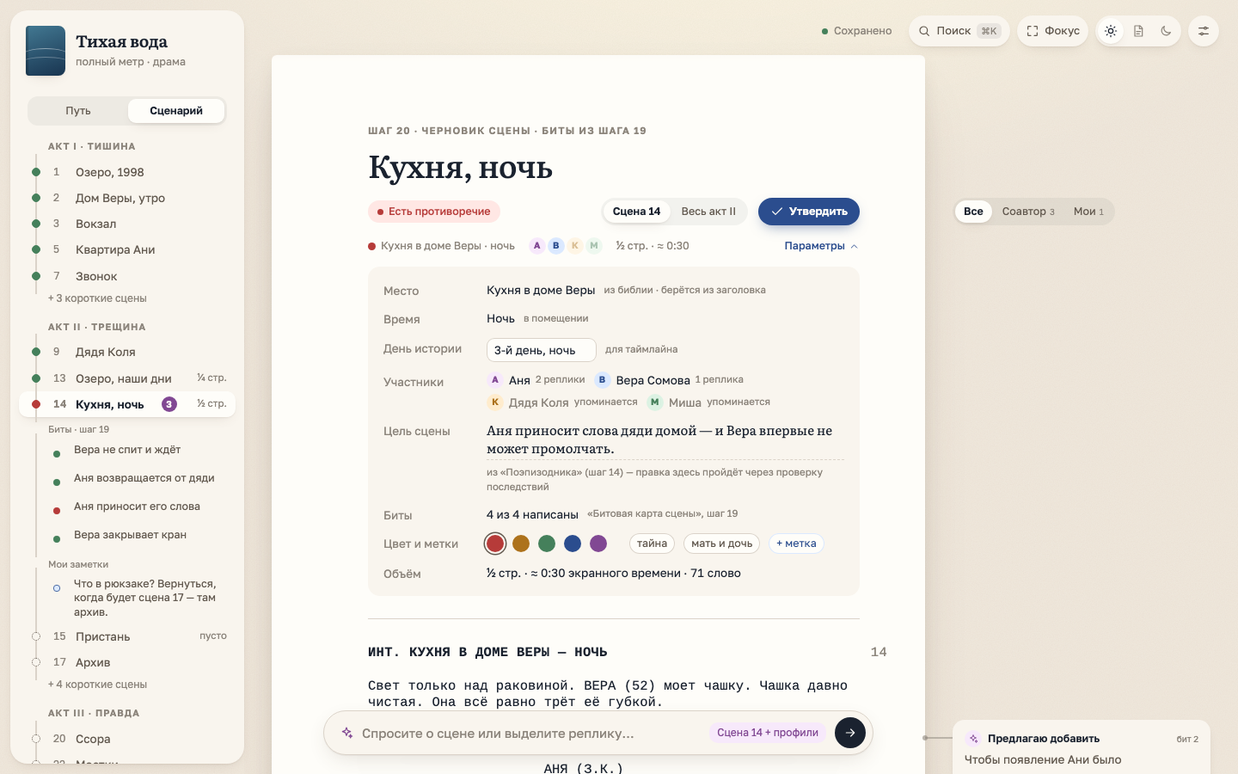
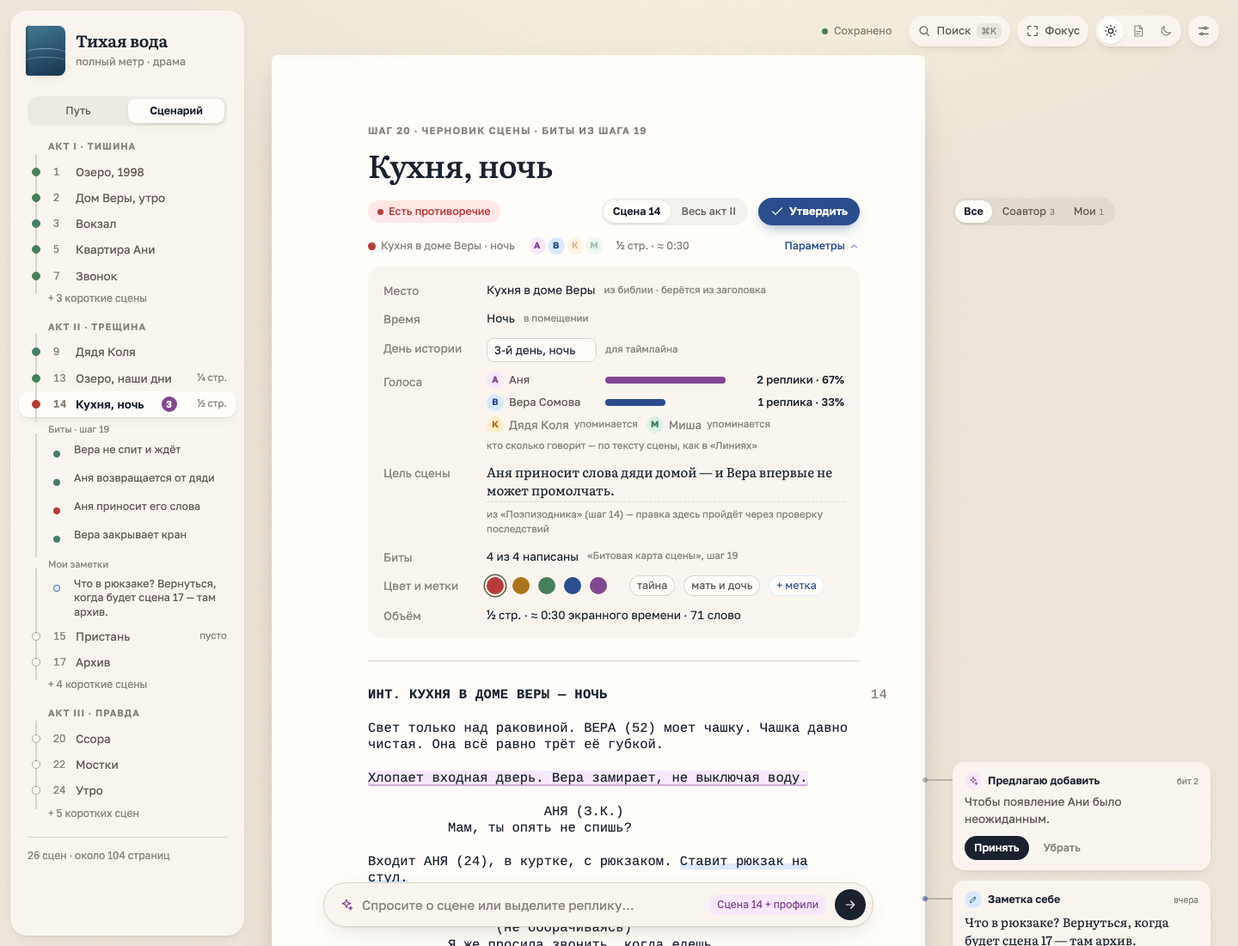
Add the heroines' mood and scene voices to «Кабинет»
The rhythm view gets a mood band for Vera and Anya under the tension
curve; scene parameters show who speaks how much. This closes the
visual views plan.

diff --git a/openspec/context/_raw/design/kabinet/index.html b/openspec/context/_raw/design/kabinet/index.html
@@ -618,6 +618,10 @@
   .vrow { display: grid; grid-template-columns: 96px 1fr 92px; align-items: center; gap: 10px; font-size: 13px; color: var(--ink-2); }
   .vrow i { height: 8px; width: max(var(--w), 3px); background: var(--c); border-radius: 4px; }
   .vrow b { font-weight: 500; color: var(--ink); text-align: right; }
+  .scp-voices { display: grid; gap: 6px; width: 100%; max-width: 460px; }
+  .scp-v { grid-template-columns: 128px 1fr 128px; }
+  .scp-v > span { display: inline-flex; align-items: center; gap: 6px; min-width: 0; }
+  @container (max-width: 760px) { .scp-v { grid-template-columns: minmax(0, 1fr) auto; row-gap: 4px; } .scp-v i { grid-column: 1 / -1; grid-row: 2; } }
   .tl-alert.warn { box-shadow: var(--shadow-sm), inset 3px 0 0 var(--warn); }
   .tl-alert.warn .av { background: var(--ai-soft); color: var(--ai); }
   .tn .tn-act { fill: oklch(from var(--ink) l c h / .025); }
@@ -628,6 +632,14 @@
   .tn .tn-beat.off { stroke: var(--warn); }
   .tn .tn-bl { font-size: 11.5px; font-weight: 600; fill: var(--ink-2); }
   .tn .tn-area { fill: var(--accent-soft); opacity: .55; }
+  .tn .tn-mband { fill: oklch(from var(--ink) l c h / .025); }
+  .tn .tn-mood { fill: none; stroke: var(--c); stroke-width: 2; opacity: .9; }
+  .tn .tn-mpt { fill: var(--paper); stroke: var(--c); stroke-width: 1.6; cursor: pointer; }
+  .tn .tn-mpt.on { fill: var(--c); }
+  .tn .tn-msel { stroke: var(--accent); stroke-width: 1; stroke-dasharray: 2 3; opacity: .6; }
+  .tn-who { display: inline-flex; align-items: center; gap: 6px; }
+  .tn-who i { width: 10px; height: 3px; border-radius: 2px; }
+  .tn-who[aria-pressed="false"] i { opacity: .35; }
   .tn .tn-line { fill: none; stroke: var(--accent); stroke-width: 2.2; }
   .tn .tn-pt { fill: var(--paper); stroke: var(--accent); stroke-width: 2; cursor: ns-resize; transition: r .15s; }
   .tn .tn-pt:hover { r: 7; }
@@ -755,15 +767,12 @@
   .ibl-k { width: 62px; flex: none; font-size: 12px; color: var(--ink-3); }
   .ibl-t { flex: 1; min-width: 0; font-family: var(--font-prose); font-size: 15.5px; color: var(--ink); }
   .ibp { width: 340px; flex: none; margin-top: 60px; overflow: auto; padding: 14px 14px 110px; border-radius: 20px; background: var(--panel); box-shadow: var(--shadow-sm); }
-  .ib-add { display: flex; gap: 6px; }
-  .ib-add input { flex: 1; min-width: 0; height: 36px; padding: 0 14px; border-radius: 18px; border: 0; background: var(--paper); box-shadow: inset 0 0 0 1px var(--line); color: var(--ink); font: inherit; font-size: 14px; }
-  .ib-add .chipbtn { width: 36px; height: 36px; padding: 0; display: grid; place-items: center; }
-  .ib-add .chipbtn svg, .ib-sel-acts .chipbtn svg { width: 13px; height: 13px; }
   .ib-sel { margin-top: 4px; padding: 14px; border-radius: 16px; background: var(--paper); box-shadow: var(--shadow-sm); }
   .ib-sel-h { display: flex; align-items: center; flex-wrap: wrap; gap: 6px 8px; }
   .ib-sel-h b { font-family: var(--font-prose); font-size: 18px; font-weight: 600; }
   .ib-in { font-size: 12px; color: var(--ink-3); }
   .ib-sel > p { margin: 6px 0 4px; font-family: var(--font-prose); font-size: 16px; line-height: 1.4; color: var(--ink); }
+  .ib-sel-acts .chipbtn svg { width: 13px; height: 13px; }
   .ib-sel-acts { display: flex; flex-wrap: wrap; gap: 6px; margin-top: 12px; }
   .ib-sel-acts .chipbtn { display: inline-flex; align-items: center; gap: 5px; }
   .ib-row { display: flex; align-items: center; flex-wrap: wrap; gap: 6px 8px; margin-top: 8px; font-size: 13px; color: var(--ink-2); }
@@ -1427,7 +1436,7 @@ const STATE = {
   d11: { answers: [], own: [], checks: {}, approved: false },
   chg: "edit", chgOld: D2Q, chgNew: "Имеет ли человек право решать за близких, какую правду они смогут вынести?", plan: new Set([5, 9, 13]), revision: false,
   bibleTab: "people", gap: null,
-  tlSel: 14, tlThreads: true, tlKnow: true, grSel: 14, tnSel: 14, tension: {}, relAt: 14, relSel: "va", relFocus: "v", relView: "arcs",
+  tlSel: 14, tlThreads: true, tlKnow: true, grSel: 14, tnSel: 14, tnMood: ["v", "a"], tension: {}, relAt: 14, relSel: "va", relFocus: "v", relView: "arcs",
   ibSel: 10, ibEdit: null, ibRename: null, ibGone: [], ibUndo: null, ibPos: {}, ibLinks: ["1-9", "1-4", "13-14", "3-5", "2-5", "2-16", "5-17", "6-8", "7-8"], ibSugg: ["4-10", "6-12"], ibLink: null, ibYes: {}, ibNo: [], ibNew: [], ibWires: true, ibShowGrew: true, ibGroups: true, ibView: "board", ibCam: null, ibGroupSugg: true,
   // Рамки групп на доске импульсов: координаты в точках доски
   ibFrames: [{ id: "lake", name: "Озеро", x: 0, y: 0, w: 620, h: 452 }, { id: "vera", name: "Вера и тема", x: 700, y: 0, w: 620, h: 452 }, { id: "kitchen", name: "Кухня, ночь", x: 1400, y: 0, w: 420, h: 452 }],
@@ -1718,7 +1727,8 @@ const VIEWS = {
 
   rhythm: () => `<div class="stage"><div class="home">
       <div class="board-h"><div><div class="hello">Тихая вода · полный метр</div><h1>Ритм</h1></div>${boardSeg("rhythm")}</div>
-      <p class="board-note">Кривая напряжения по страницам сценария поверх опорных точек «Скелетной карты». Кривую предлагает соавтор; если чувствуете сцену иначе — потяните точку вверх или вниз. Полосы — где эти точки обычно ждёт зритель полного метра.</p>
+      <p class="board-note">Кривая напряжения по страницам сценария поверх опорных точек «Скелетной карты». Кривую предлагает соавтор; если чувствуете сцену иначе — потяните точку вверх или вниз. Полосы — где эти точки обычно ждёт зритель полного метра. Ниже — настроение героинь: лучше или хуже им от сцены к сцене.</p>
+      <div class="tl-tools"><span>Настроение</span>${TN_WHO.map(([k, name, c]) => `<button class="chipbtn tn-who" aria-pressed="${STATE.tnMood.includes(k)}" data-act="tn-mood" data-k="${k}"><i style="background:var(--${c})"></i>${name}</button>`).join("")}</div>
       <div class="tl-wrap tn-wrap">${tnSvg()}
         <div class="tl-legend tn-legend"><span><i class="lg tn-l"></i>напряжение</span><span><i class="tn-d"></i>ваша правка</span><span><i class="tn-d g"></i>оценка соавтора</span><span><i class="tn-b"></i>где точку обычно ждут</span></div></div>
       ${tnSel()}
@@ -2366,6 +2376,15 @@ const TN_PAGES = { 1: 3, 2: 5, 3: 3, 4: 2, 5: 4, 6: 3, 7: 4, 8: 2, 9: 7, 10: 4, 
 // Оценка соавтора, 0–10. Сцены 14 и 22 зависят от того, где Аня узнаёт правду.
 const TN_AI = { 1: 6, 2: 2, 3: 3, 4: 2, 5: 5, 6: 3, 7: 5, 8: 3, 9: 7, 10: 3, 11: 5, 12: 3, 13: 5, 15: 6, 16: 8, 17: 7, 18: 5, 19: 6, 20: 8, 21: 7, 23: 5, 24: 4, 25: 3, 26: 4 };
 const tnAI = (n) => (n === 14 ? (STATE.sceneConflict ? 9 : 6) : n === 22 ? (STATE.sceneConflict ? 8 : 10) : TN_AI[n]);
+// Настроение героинь по сценам, −5 (хуже некуда) … +5 (лучше всего). Предлагает соавтор по тексту и профилям.
+// Аня в сцене 14 и 22 зависит от того, где она узнаёт правду.
+const TN_MOOD = {
+  v: { 1: -1, 2: 1, 3: 1, 4: 0, 5: -2, 6: -1, 7: -2, 8: -3, 9: -3, 10: -2, 11: -2, 12: -4, 13: -3, 14: -4, 15: -3, 16: -5, 17: -4, 18: -3, 19: -4, 20: -5, 21: -4, 22: -2, 23: 0, 24: 1, 25: 2, 26: 3 },
+  a: { 1: 0, 2: 2, 3: 2, 4: 1, 5: 1, 6: 0, 7: -1, 8: -1, 9: -3, 10: -2, 11: -2, 12: -2, 13: -3, 15: -3, 16: -3, 17: -2, 18: -1, 19: -3, 20: -5, 21: -4, 23: -2, 24: 0, 25: 1, 26: 3 },
+};
+const TN_WHO = [["v", "Вера", "accent"], ["a", "Аня", "ai"]];
+const tnMood = (k, n) => (k === "a" && n === 14 ? (STATE.sceneConflict ? -4 : -3) : k === "a" && n === 22 ? (STATE.sceneConflict ? -2 : -4) : TN_MOOD[k][n]);
+const signed = (v) => (v > 0 ? `+${v}` : v < 0 ? `−${-v}` : "0");
 const TN_WHY = {
   1: "Пролог: зритель видит мостки и чувствует беду, но не знает, что случилось.",
   5: "Фото с озера — первый крючок: вопрос, который держит до конца.",
@@ -2427,7 +2446,14 @@ function tnSvg() {
   const ghosts = scs.filter((s) => s.v !== s.ai).map((s) => `<circle class="tn-ghost" cx="${mid(s)}" cy="${tnY(s.ai)}" r="4"/><line class="tn-gl" x1="${mid(s)}" y1="${tnY(s.ai)}" x2="${mid(s)}" y2="${tnY(s.v)}"/>`).join("");
   const dots = scs.map((s) => `<circle class="tn-pt ${s.v !== s.ai ? "mine" : ""} ${s.n === STATE.tnSel ? "on" : ""} ${s.n === 11 ? "draft" : ""}" data-k="${s.n}" cx="${mid(s)}" cy="${tnY(s.v)}" r="${s.n === STATE.tnSel ? 7 : 5.5}"><title>Сцена ${s.n} · ${s.title} — ${s.v} из 10</title></circle>`).join("");
   const line = tnPath(pts);
-  return `<svg class="tl tn" viewBox="0 0 1040 ${TN_Y0 + 60}" role="img" aria-label="Кривая напряжения по страницам сценария и опорные точки структуры">
+  // Полоса настроения под напряжением: та же ось страниц, своя шкала «лучше — хуже»
+  const MY = TN_Y0 + 150, MK = 11, my = (v) => MY - v * MK, sel = scs.find((s) => s.n === STATE.tnSel);
+  const mood = STATE.tnMood.length ? `<rect class="tn-mband" x="${TN_X0}" y="${my(5) - 6}" width="${TN_X1 - TN_X0}" height="${10 * MK + 12}" rx="8"/>
+    <line class="tn-grid" x1="${TN_X0}" y1="${MY}" x2="${TN_X1}" y2="${MY}"/><text class="sub" x="0" y="${my(4) + 4}">лучше</text><text class="sub" x="0" y="${my(-4) + 4}">хуже</text>
+    <line class="tn-msel" x1="${mid(sel)}" y1="${my(5) - 6}" x2="${mid(sel)}" y2="${my(-5) + 6}"/>
+    ${TN_WHO.filter(([k]) => STATE.tnMood.includes(k)).map(([k, , c]) => `<path class="tn-mood" style="--c:var(--${c})" d="${tnPath(scs.map((s) => [mid(s), my(tnMood(k, s.n))]))}"/>
+      ${scs.map((s) => `<circle class="tn-mpt ${s.n === STATE.tnSel ? "on" : ""}" style="--c:var(--${c})" data-act="tn-sel" data-k="${s.n}" cx="${mid(s)}" cy="${my(tnMood(k, s.n))}" r="${s.n === STATE.tnSel ? 5 : 3}"><title>Сцена ${s.n} · ${k === "v" ? "Вера" : "Аня"}: ${signed(tnMood(k, s.n))}</title></circle>`).join("")}`).join("")}` : "";
+  return `<svg class="tl tn" viewBox="0 0 1040 ${TN_Y0 + 60 + (STATE.tnMood.length ? 160 : 0)}" role="img" aria-label="Кривая напряжения по страницам сценария, опорные точки структуры и настроение героинь">${mood}
     ${acts}${beats}${grid}${sag}
     <path class="tn-area" d="${line}L${pts.at(-1)[0]} ${TN_Y0}L${pts[0][0]} ${TN_Y0}Z"/><path class="tn-line" d="${line}"/>
     ${ghosts}${dots}${peak}
@@ -2437,7 +2463,7 @@ function tnSel() {
   const s = tnScenes().find((x) => x.n === STATE.tnSel);
   return `<div class="tl-sel"><div class="tl-sel-h"><span class="dot ${s.n === 11 ? "draft" : grStatus(s.n)}"><i></i></span><b>Сцена ${s.n} · ${s.title}</b>${SCRIPT[s.n] ? `<button class="chipbtn" data-act="sc-open" data-k="${s.n}">Открыть сцену</button>` : ""}</div>
     <p>${tnWhy(s.n)}</p>
-    <div class="tl-facts"><span>с. ${Math.round(s.from) + 1}–${s.to} · ${TN_PAGES[s.n]} ${plural(TN_PAGES[s.n], "страница", "страницы", "страниц")}</span><span>напряжение: ${s.v} из 10${s.v !== s.ai ? ` · соавтор оценил ${s.ai}` : " · оценка соавтора"}</span></div></div>`;
+    <div class="tl-facts"><span>с. ${Math.round(s.from) + 1}–${s.to} · ${TN_PAGES[s.n]} ${plural(TN_PAGES[s.n], "страница", "страницы", "страниц")}</span><span>напряжение: ${s.v} из 10${s.v !== s.ai ? ` · соавтор оценил ${s.ai}` : " · оценка соавтора"}</span>${STATE.tnMood.length ? `<span>настроение: ${TN_WHO.filter(([k]) => STATE.tnMood.includes(k)).map(([k, name]) => `${name} ${signed(tnMood(k, s.n))}`).join(" · ")}</span>` : ""}</div></div>`;
 }
 function tnNotes() {
   const scs = tnScenes(), iss = tnIssues(scs), off = iss.beats.filter((b) => !b.ok);
@@ -2449,6 +2475,12 @@ function tnNotes() {
       `${STATE.gap === null ? `<button class="chipbtn main" data-act="gr-gap" data-k="1">Набросать связку</button>` : ""}<button class="chipbtn" data-open="grid">Открыть «Линии»</button>`) : "",
     off.length ? note("warn", "ai", "Опорные точки не на своих местах", off.map((b) => `${b.name} — на с. ${b.page}, обычно с. ${b.lo}–${b.hi}`).join("; ") + ".")
       : note("ok", "check", "Опорные точки на своих местах", "Завязка, поворот, середина, кризис и кульминация стоят там, где их обычно ждёт зритель полного метра. Это ориентир, а не правило."),
+    STATE.tnMood.length ? (() => {
+      const who = TN_WHO.filter(([k]) => STATE.tnMood.includes(k)).map(([k, name]) => { const low = scs.reduce((a, s) => (tnMood(k, s.n) < tnMood(k, a.n) ? s : a)); return { name, low: low.n, lv: tnMood(k, low.n), end: tnMood(k, scs.at(-1).n) }; });
+      const lows = who.map((w) => `${w.name} — в сцене ${w.low} (${signed(w.lv)})`).join(", ");
+      const apart = who.length === 2 && who[0].low !== who[1].low;
+      return note("warn", "ai", "Настроение героинь", `Ниже всего: ${lows}. ${apart ? "Дно у них в разных сценах — зритель не сидит на одной ноте, а сцены 16–20 держатся на том, что одной из них хуже. " : ""}К финалу ${who.length === 2 ? "обе поднимаются" : "она поднимается"}: ${who.map((w) => `${w.name} до ${signed(w.end)}`).join(", ")}.${STATE.sceneConflict && STATE.tnMood.includes("a") ? " Пока в сцене 14 Аня по тексту уже знает правду, её настроение проседает там, а не в сцене 22, где правду говорит Вера." : ""}`);
+    })() : "",
     Object.keys(STATE.tension).length ? `<div class="tn-mine">${ico("pencil")}Вы поправили ${Object.keys(STATE.tension).length} ${plural(Object.keys(STATE.tension).length, "точку", "точки", "точек")}; пунктиром — оценка соавтора.<button class="chipbtn quiet" data-act="tn-reset">Вернуть оценку соавтора</button></div>` : "",
   ].join("");
 }
@@ -3787,6 +3819,8 @@ Object.assign(ACTIONS, {
   "rel-focus"(b, k) { STATE.relFocus = k; const own = RELS.find(([id]) => id.includes(k)); if (!STATE.relSel.includes(k) && own) STATE.relSel = own[0]; relUpdate(); },
   "rel-view"(b, k) { STATE.relView = k; relUpdate(); },
   "tn-reset"() { STATE.tension = {}; paint(); },
+  "tn-sel"(b, k) { STATE.tnSel = Number(k); paint(); },
+  "tn-mood"(b, k) { STATE.tnMood = STATE.tnMood.includes(k) ? STATE.tnMood.filter((x) => x !== k) : [...STATE.tnMood, k]; paint(); },
   "ib-sel"(b, k) { ibPick(Number(k)); },
   "ib-link"(b, k) { STATE.ibLink = k ? Number(k) : null; if (STATE.ibLink && STATE.ibView === "list") STATE.ibView = "board"; paint(); },
   "ib-view"(b, k) { STATE.ibView = k; STATE.ibLink = null; paint(); },
@@ -3905,14 +3939,16 @@ function scpHtml(n) {
     ${cast ? `<span class="sp cast">${cast}</span>` : ""}<span class="sp" title="Страница сценария — около минуты экранного времени">${st.pages} · ${st.dur}</span>
     <button class="scp-btn" data-act="scp" aria-expanded="${open}">Параметры${ico("down")}</button></div>`;
   if (!open) return strip;
-  const speaks = Object.entries(st.lines).map(([k, c]) => `<span class="who-chip"><span class="av2 ${k}">${PEOPLE[k].l}</span>${PEOPLE[k].full}<span class="ps">${c} ${plural(c, "реплика", "реплики", "реплик")}</span></span>`).join("");
+  // Голоса сцены: кто сколько говорит, по тексту на лету
+  const said = Object.values(st.lines).reduce((a, b) => a + b, 0), most = Math.max(1, ...Object.values(st.lines));
+  const speaks = Object.entries(st.lines).sort((a, b) => b[1] - a[1]).map(([k, c]) => `<div class="vrow scp-v"><span><span class="av2 ${k}">${PEOPLE[k].l}</span>${PEOPLE[k].full}</span><i style="--w:${(c / most) * 100}%;--c:var(--${GR_WHO.find((w) => w[0] === k)[2]})"></i><b>${c} ${plural(c, "реплика", "реплики", "реплик")} · ${Math.round((c / said) * 100)}%</b></div>`).join("");
   const ments = [...st.ment].map((k) => `<span class="who-chip ment"><span class="av2 ${k}">${PEOPLE[k].l}</span>${PEOPLE[k].full}<span class="ps">упоминается</span></span>`).join("");
   const beatsDone = SCRIPT[n].beats.filter((b, i) => SCRIPT[n].html.includes(`data-beat="${i + 1}"`)).length;
   return strip + `<dl class="scp-panel" id="scpp">
     <dt>Место</dt><dd>${st.place ? `${placeName(st.place)}<span class="ps">${PLACES.some(([pl]) => pl === st.place) ? "из библии · берётся из заголовка" : "нет в «Паспорте места» — добавить при утверждении"}</span>` : `<span class="ps">появится из заголовка сцены</span>`}</dd>
     <dt>Время</dt><dd>${st.time ? cap(st.time) : "—"}<span class="ps">${st.io === "НАТ." ? "на улице" : st.io ? "в помещении" : ""}</span></dd>
     <dt>День истории</dt><dd><input class="day" data-day value="${esc(p.day)}" aria-label="День истории" /><span class="ps">для таймлайна</span></dd>
-    <dt>Участники</dt><dd>${speaks + ments || `<span class="ps">появятся, когда персонажи заговорят</span>`}</dd>
+    <dt>Голоса</dt><dd>${speaks ? `<div class="scp-voices">${speaks}</div>` : ""}${ments}${speaks || ments ? "" : `<span class="ps">появятся, когда персонажи заговорят</span>`}${speaks ? `<span class="ps">кто сколько говорит — по тексту сцены, как в «Линиях»</span>` : ""}</dd>
     <dt>Цель сцены</dt><dd><span class="goal" contenteditable="true" data-goal spellcheck="false">${esc(p.goal)}</span><span class="ps">из «Поэпизодника» (шаг 14) — правка здесь пройдёт через проверку последствий</span></dd>
     <dt>Биты</dt><dd>${beatsDone} из ${SCRIPT[n].beats.length} написаны<span class="ps">«Битовая карта сцены», шаг 19</span></dd>
     <dt>Цвет и метки</dt><dd>${SWATCH.map((c) => `<button class="sw" style="background:var(--${c})" aria-pressed="${p.color === c}" data-act="scp-color" data-k="${c}" aria-label="Цвет карточки"></button>`).join("")}<span style="width:6px"></span>${p.tags.map((t) => `<span class="tag">${esc(t)}</span>`).join("")}<button class="tag add" data-act="demo" data-k="Метки общие для сценария: по ним фильтруются карточки и поиск.">+ метка</button></dd>

diff --git a/openspec/context/_raw/design/kabinet/README.md b/openspec/context/_raw/design/kabinet/README.md
@@ -22,7 +22,7 @@
   - Имена в тексте живые: наведение показывает карточку персонажа — чего хочет, как говорит, что знает к этой сцене, сколько у него реплик.
   - Выделение текста: жирный, курсив, подчёркнутый; «Спросить» (вопрос соавтору о выделенном); «Варианты» — три варианта в голосе персонажа, выбранный встаёт в текст правкой «было → стало» с «Принять» и «Вернуть как было»; «Сверить» — реплика против профиля; «Заметка» — пометка себе на полях, её цвет отличается от заметок соавтора.
   - Слева вместо пути — «Сценарий»: акты, сцены со статусом и объёмом в страницах, биты текущей сцены из шага 19 (написан, не написан, с противоречием). Вкладка «Путь» возвращает путь проекта.
-  - Параметры сцены — строка под шапкой листа: место и время из заголовка, кто говорит и кто только упоминается, объём в страницах и минутах. «Параметры» раскрывают карточку: день истории для таймлайна, цель сцены из «Поэпизодника» (правка идёт через проверку последствий), биты, цвет карточки и метки, слова. Всё, что видно из текста, считается по тексту на лету.
+  - Параметры сцены — строка под шапкой листа: место и время из заголовка, кто говорит и кто только упоминается, объём в страницах и минутах. «Параметры» раскрывают карточку: голоса — кто сколько говорит, полоской с числом реплик и долей, и кто только упоминается (считается по тексту на лету, как в «Линиях»); день истории для таймлайна, цель сцены из «Поэпизодника» (правка идёт через проверку последствий), биты, цвет карточки и метки, слова. Всё, что видно из текста, считается по тексту на лету.
   - Найти и заменить (⌘F или ⌘K): по сцене или по всему акту, ↑ ↓ и Enter / Shift+Enter, замена по одному и всех сразу. Совпадения в утверждённой сцене находятся, но не заменяются — их правка идёт через проверку последствий.
   - Свои заметки: над полями фильтр «Все · Соавтор · Мои» с количеством. «Мои» оставляет только заметки автора и гасит пометки соавтора в тексте. Под битами в навигаторе — список своих заметок со ссылкой на место; они же ищутся через ⌘K.
   - «Сцена 14 / Весь акт II» над листом: одна сцена или сцены акта подряд. Утверждённая сцена заперта, «Править» её открывает. Пустая сцена 15 начинается с заголовка, а биты подсказывают, с чего начать.
@@ -48,7 +48,7 @@
     Клик по связи (строке, персонажу, клетке) открывает её историю по сценам. На полях соавтор отмечает, что сцена 14 ломает дугу Веры и Ани (пока не исправлено противоречие), и что связь Веры и дяди Коли не меняется за всю историю — со ссылкой на «Линии».
 - **Карточки сцен** (`cards`): три акта, карточки перетаскиваются; ИИ отмечает провисание линии персонажа и может набросать сцену-связку черновиком.
 - **Линии** (`grid`, вкладка рядом с «Таймлайном»; ⌘K): строки — персонажи и сюжетные линии («Тайна Миши», «Мать и дочь», «Вина дяди Коли»), столбцы — 26 сцен по актам. Точка — говорит (размер — сколько реплик), кольцо — в кадре молчит, маленькая точка — упоминается; у линий — двигает или касается. Справа итог: сколько сцен и доля реплик. Пропуск Ани в сценах 10–12 заштрихован, обрыв линии дяди Коли после сцены 9 — пунктиром. Сцены 13–15 считаются по тексту из редактора. Клик по столбцу — голоса сцены (кто сколько говорит), упоминания и линии. Под сеткой заметки соавтора: пропуск Ани с «Набросать связку» (та же сцена 11, что на карточках), обрыв линии дяди Коли и спокойная отметка, что Вера говорит меньше Ани по замыслу.
-- **Ритм** (`rhythm`, вкладка «Ритм»; ⌘K): кривая напряжения по страницам сценария (объём сцен — оценка по «Поэпизоднику»), под ней номера сцен и акты. Опорные точки «Скелетной карты» — завязка, первый поворот, середина, кризис, кульминация — стоят пунктиром, полосы показывают, где их обычно ждёт зритель полного метра; если опорная точка выходит из своей полосы, полоса и линия становятся жёлтыми, а соавтор пишет об этом под графиком. Кривую предлагает соавтор; точку можно потянуть мышью — она становится «вашей правкой», а оценка соавтора остаётся пунктиром, «Вернуть оценку соавтора» сбрасывает правки. Клик по точке — почему соавтор так оценил сцену, страницы и оценка. Заметки: пик в сцене 14 сильнее кульминации (пока не исправлено противоречие), провисание второго акта в сценах 10–12 (пропадает со связкой или если поднять точки), опорные точки на местах. На телефоне вкладки видов переносятся в две строки.
+- **Ритм** (`rhythm`, вкладка «Ритм»; ⌘K): кривая напряжения по страницам сценария (объём сцен — оценка по «Поэпизоднику»), под ней номера сцен и акты. Опорные точки «Скелетной карты» — завязка, первый поворот, середина, кризис, кульминация — стоят пунктиром, полосы показывают, где их обычно ждёт зритель полного метра; если опорная точка выходит из своей полосы, полоса и линия становятся жёлтыми, а соавтор пишет об этом под графиком. Кривую предлагает соавтор; точку можно потянуть мышью — она становится «вашей правкой», а оценка соавтора остаётся пунктиром, «Вернуть оценку соавтора» сбрасывает правки. Клик по точке — почему соавтор так оценил сцену, страницы и оценка. Под кривой напряжения — полоса настроения Веры и Ани «лучше — хуже» на той же оси страниц (оценка соавтора по тексту и профилям); кнопки «Вера» и «Аня» над графиком включают линии, клик по точке выбирает сцену, а у выбранной сцены видно настроение обеих. Пока не исправлено противоречие, Аня в сцене 14 проседает раньше задуманного. Заметки: пик в сцене 14 сильнее кульминации (пока не исправлено противоречие), провисание второго акта в сценах 10–12 (пропадает со связкой или если поднять точки), опорные точки на местах, где у героинь дно и как они поднимаются к финалу. На телефоне вкладки видов переносятся в две строки.
 - **Таймлайн** (`timeline`, вкладка рядом с «Карточками»; ⌘K): сверху — время истории (август 1998, двадцать лет, дни 1–8 из параметров сцен), снизу — порядок сцен по актам; нить ведёт от сцены к её моменту, флешбэк — пунктиром. Слой «Кто знает правду»: когда её знают Вера, дядя Коля, Аня и зритель, и где зритель знает больше Ани. Противоречие сцены 14 видно как ранняя отметка «по тексту уже знает» и пропавший разрыв; после правки реплики в сцене таймлайн показывает «Тайна держится». Клик по сцене показывает, что о правде знает каждый к этой сцене. Слои «Нити» и «Кто что знает» выключаются. Набросок сцены-связки из карточек тоже встаёт на таймлайн. На узком экране график прокручивается вбок и открывается на выбранной сцене.
 - **Поиск и команды** (⌘K или «Поиск» сверху): документы, сцены, персонажи, цитаты из текста и действия в одном окне; если ничего не нашлось — «Спросить соавтора» с тем же запросом.
 - **Сохранение** (сверху справа): «Сохранено», «Сохраняю…», «Нет связи · N правок на этом устройстве»; кнопки «Сохранить» нет.
@@ -61,10 +61,10 @@
 Порядок — по пользе для автора, обсуждено с владельцем 2026-10-27. Опора — Story Map и Beat Board в Final Draft, сетка линий в Plottr, хронология в Aeon Timeline, анализ реплик в Highland, статистика STARC. Правило отбора: картинка показывает проблему, которую не видно в тексте.
 1. **Таймлайн «как было и как показано»** со слоем «кто что знает» — вкладка «Таймлайн» у карточек сцен. Фабула и сюжет связаны нитями; слой знания показывает, когда правду знают персонажи и зритель, и что ломает противоречие в сцене 14. *Нарисован (`timeline`).*
 2. **Сетка линий и персонажей**: строки — персонажи и линии, столбцы — сцены; присутствие и доля реплик; видно, где линия пропадает. *Нарисована (`grid`), вместе с гистограммой голосов сцены из пункта 6.*
-3. **Кривая напряжения поверх структуры**: опорные точки «Скелетной карты» и обычные ориентиры по страницам; кривую предлагает соавтор, автор правит мышкой. *Нарисована (`rhythm`); кривая настроения героини — нет.*
+3. **Кривая напряжения поверх структуры**: опорные точки «Скелетной карты» и обычные ориентиры по страницам; кривую предлагает соавтор, автор правит мышкой. *Нарисована (`rhythm`) вместе с настроением Веры и Ани.*
 4. **Паутина отношений с ползунком по сценам** — развитие схемы связей в библии: как отношения меняются по ходу истории. *Нарисована (библия → «Отношения»), в четырёх видах с переключателем.*
 5. **Свободная доска для шага 1 «Карта импульсов»**: образы, фразы и сцены раскладываются и связываются; соавтор предлагает, что из них стало темой, персонажем, сценой. *Нарисована (`d1`).*
-6. **Гистограмма голосов** — кто сколько говорит; внутри параметров сцены и сетки из пункта 2, без отдельного экрана. *В сетке есть; в параметрах сцены — нет.*
+6. **Гистограмма голосов** — кто сколько говорит; внутри параметров сцены и сетки из пункта 2, без отдельного экрана. *Нарисована в сетке и в параметрах сцены.*
 
 Не делаем сейчас: карты мест и миров, генеалогические деревья, трёхмерные графы.
 
@@ -77,7 +77,7 @@
 - Экспорт черновика до шага 22 разрешён с несъёмной пометкой «Черновик»; финальный текст по-прежнему собирается только из утверждённого.
 
 ## Что проверено
-Все экраны в трёх темах на 1440 и 830 px; клики по всем связкам (набор сцены с Tab, Enter и ⌥-клавишами, автодополнение имён и заголовков, карточка персонажа, панель выделения и её действия, переходы по сценам и битам, режим акта, создание истории, разбор рукописи, вопросы и чек-лист шага 11, утверждение, проверка последствий и план, библия, перетаскивание и набросок сцены, таймлайн (выбор сцены, слои, состояние до и после правки сцены 14, набросок связки), линии (выбор сцены, набросок связки, пересчёт сцены по тексту), отношения (четыре вида, ползунок по всем 26 сценам, остановки, выбор связи и героя в центре, переход по истории связи), ритм (перетаскивание точки мышью, возврат оценки соавтора, состояние до и после правки сцены 14 и со связкой), поиск с клавиатуры, версии и возврат, экспорт, настройки, «нет связи», сбой соавтора, удаление) без ошибок в консоли. Наложения и обрезка всплывающих слоёв, меню, заметок, подписей и кнопок проверены скриптом на всех экранах и состояниях редактора при ширине 1440, 1300, 1240, 1180, 1000, 830, 760 и 390 px. Таймлайн: подписи графика проверены скриптом на наложения во всех состояниях, раскладка — при 1187, 830 и 375 px. Линии, ритм и отношения: раскладка проверена скриптом при 1187 и 375 px; карта импульсов (создание кнопкой и двойным кликом, набор текста, Enter, Esc и клик мимо, правка и пустой текст, удаление и возврат, новая группа и переименование, выбор, перетаскивание карточки и рамки, вход в группу и рост рамки, сдвиг и масштаб кнопками и колесом, «Вписать всё», связывание и отмена, сбор предложенной группы, ответы на предложения соавтора, добавление, список и «Показать на доске», «Фокус») — при 1440, 1187, 830 и 375 px, включая наложения карточек друг на друга, подписей связей и групп на карточки и выход карточек за рамку; подписи ритма и всех четырёх видов отношений — на наложения друг с другом и с кружками персонажей во всех 26 сценах и для каждого героя в центре. Не проверено: Firefox, Safari (подсветка имени под мышью использует CSS Custom Highlight API), ввод с экранной клавиатуры и IME, клавиатурная навигация, экранные дикторы, перетаскивание на сенсорных экранах.
+Все экраны в трёх темах на 1440 и 830 px; клики по всем связкам (набор сцены с Tab, Enter и ⌥-клавишами, автодополнение имён и заголовков, карточка персонажа, панель выделения и её действия, переходы по сценам и битам, режим акта, создание истории, разбор рукописи, вопросы и чек-лист шага 11, утверждение, проверка последствий и план, библия, перетаскивание и набросок сцены, таймлайн (выбор сцены, слои, состояние до и после правки сцены 14, набросок связки), линии (выбор сцены, набросок связки, пересчёт сцены по тексту), отношения (четыре вида, ползунок по всем 26 сценам, остановки, выбор связи и героя в центре, переход по истории связи), ритм (перетаскивание точки мышью, возврат оценки соавтора, состояние до и после правки сцены 14 и со связкой), поиск с клавиатуры, версии и возврат, экспорт, настройки, «нет связи», сбой соавтора, удаление) без ошибок в консоли. Наложения и обрезка всплывающих слоёв, меню, заметок, подписей и кнопок проверены скриптом на всех экранах и состояниях редактора при ширине 1440, 1300, 1240, 1180, 1000, 830, 760 и 390 px. Таймлайн: подписи графика проверены скриптом на наложения во всех состояниях, раскладка — при 1187, 830 и 375 px. Линии, ритм и отношения: раскладка проверена скриптом при 1187 и 375 px; ритм с настроением героинь (обе, одна, ни одной, до и после правки сцены 14) и голоса в параметрах сцены — ещё и при 830 px; карта импульсов (создание кнопкой и двойным кликом, набор текста, Enter, Esc и клик мимо, правка и пустой текст, удаление и возврат, новая группа и переименование, выбор, перетаскивание карточки и рамки, вход в группу и рост рамки, сдвиг и масштаб кнопками и колесом, «Вписать всё», связывание и отмена, сбор предложенной группы, ответы на предложения соавтора, добавление, список и «Показать на доске», «Фокус») — при 1440, 1187, 830 и 375 px, включая наложения карточек друг на друга, подписей связей и групп на карточки и выход карточек за рамку; подписи ритма и всех четырёх видов отношений — на наложения друг с другом и с кружками персонажей во всех 26 сценах и для каждого героя в центре. Не проверено: Firefox, Safari (подсветка имени под мышью использует CSS Custom Highlight API), ввод с экранной клавиатуры и IME, клавиатурная навигация, экранные дикторы, перетаскивание на сенсорных экранах.
 
 ## Версии, от которых отказались
 Хранятся только в истории разговора: отдельные экраны «документ» и «сцена» с разной подачей ИИ; общее рабочее место с чатом в правой колонке; «Лист по центру» как в Google Docs.
